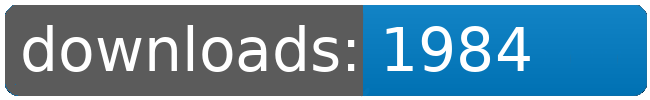
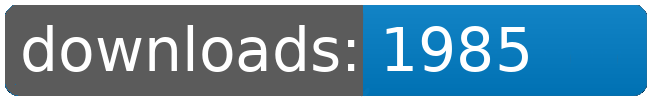
dl log written

Changed region(s): [[0.7692, 0.27, 0.8308, 0.72]]

diff --git a/README.md b/README.md
@@ -21,8 +21,8 @@
 		<td>2030</td>
 		<td>2056</td>
 		<td>2082</td>
-		<td>2101</td>
-		<td>+ 19</td>
+		<td>2102</td>
+		<td>+ 20</td>
 	</tr>
 	<tr>
 		<td>Factory.Outlets</td>
@@ -32,8 +32,8 @@
 		<td>1914</td>
 		<td>1940</td>
 		<td>1966</td>
-		<td>1984</td>
-		<td>+ 18</td>
+		<td>1985</td>
+		<td>+ 19</td>
 	</tr>
 	<tr>
 		<td>Fundamental.Outfit.Expansion</td>
@@ -109,8 +109,8 @@
 		<td></td>
 		<td></td>
 		<td></td>
-		<td>17181</td>
-		<td>146</td>
+		<td>17183</td>
+		<td>148</td>
 	</tr>
 </table>
 </sub></sup>
@@ -157,8 +157,8 @@
 		<td>2030</td>
 		<td>2056</td>
 		<td>2082</td>
-		<td>2101</td>
-		<td>+ 19</td>
+		<td>2102</td>
+		<td>+ 20</td>
 	</tr>
 	<tr>
 		<td>Korunak.Defense.Drones</td>
@@ -190,8 +190,8 @@
 		<td>1914</td>
 		<td>1940</td>
 		<td>1966</td>
-		<td>1984</td>
-		<td>+ 18</td>
+		<td>1985</td>
+		<td>+ 19</td>
 	</tr>
 	<tr>
 		<td>Jaws</td>
@@ -223,8 +223,8 @@
 		<td></td>
 		<td></td>
 		<td></td>
-		<td>17181</td>
-		<td>146</td>
+		<td>17183</td>
+		<td>148</td>
 	</tr>
 </table>
 </sub></sup>
